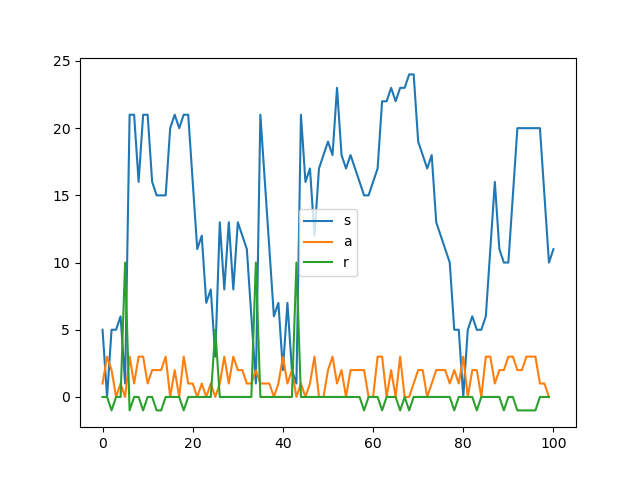
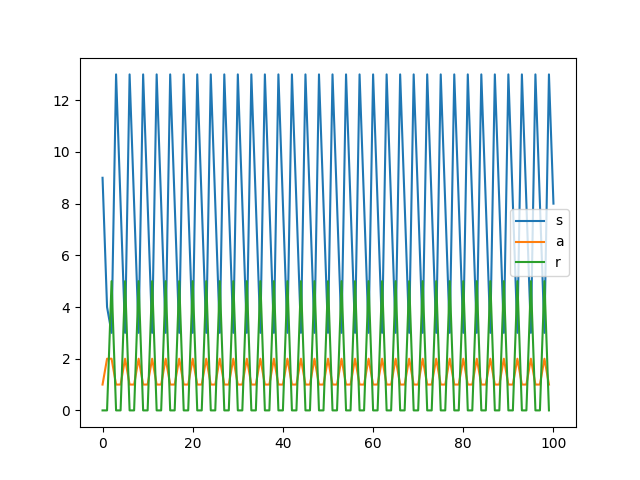
gridworld works

diff --git a/reinforce.py b/reinforce.py
@@ -1,0 +1,66 @@
+import torch
+import torch.nn as nn
+import torch.optim as optim
+from torch.distributions import Categorical
+
+
+class TabularPolicy(nn.Module):
+    def __init__(self, num_states, num_actions):
+        super(TabularPolicy, self).__init__()
+        self.weights = nn.Parameter(torch.zeros(num_states, num_actions))
+
+    def forward(self, state):
+        return Categorical(logits=self.weights[state])
+
+
+def train_policy(policy, optimizer, env, episodes, gamma=0.99):
+    returns_out = []
+    for episode in range(episodes):
+        state = env.reset()
+        log_probs, rewards = [], []
+
+        while True:
+            action_dist = policy(state)
+            action = action_dist.sample()
+            log_prob = action_dist.log_prob(action)
+            next_state, reward, done = env.step(action.item())
+
+            log_probs.append(log_prob)
+            rewards.append(reward)
+
+            state = next_state
+
+            if done:
+                break
+
+        returns = calculate_returns(rewards, gamma)
+        loss = update_policy(policy, optimizer, log_probs, returns)
+
+        returns_out.append(sum(rewards))
+
+        print(f"Episode {episode + 1}: Loss = {loss:.4f}, Total Reward = {sum(rewards)}")
+
+    return returns_out
+
+
+def calculate_returns(rewards, gamma):
+    returns = []
+    R = 0
+    for r in reversed(rewards):
+        R = r + gamma * R
+        returns.insert(0, R)
+    return returns
+
+
+def update_policy(policy, optimizer, log_probs, returns):
+    loss = []
+    for log_prob, G_t in zip(log_probs, returns):
+        loss.append(-log_prob * G_t)
+
+    loss = torch.stack(loss).sum()
+
+    optimizer.zero_grad()
+    loss.backward()
+    optimizer.step()
+
+    return loss.item()

diff --git a/test_gridworld.py b/test_gridworld.py
@@ -2,6 +2,10 @@ import random
 import numpy as np
 import matplotlib.pyplot as plt
 import gridworld
+from reinforce import TabularPolicy, train_policy
+import torch
+from torch import optim
+
 
 def main():
     # Create environment
@@ -9,6 +13,20 @@ def main():
 
     # Initialize simulation
     s = env.reset()
+
+    policy = TabularPolicy(env.num_states, env.num_actions)
+    optimizer = optim.Adam(policy.parameters(), lr=0.01)
+
+    episodes = 500
+    returns = train_policy(policy, optimizer, env, episodes, gamma=1)
+
+    # plot returns over episodes
+    plt.figure()
+    plt.plot(range(episodes), returns)
+    plt.xlabel('Episode')
+    plt.ylabel('Total Reward')
+    plt.savefig('figures/test_gridworld_returns.png')
+    plt.figure()
 
     # Create log to store data from simulation
     log = {
@@ -18,10 +36,12 @@ def main():
         'r': [],
     }
 
+    s = env.reset()
     # Simulate until episode is done
     done = False
     while not done:
-        a = random.randrange(4)
+        action_probs = torch.softmax(policy.weights[s], dim=0)
+        a = torch.argmax(action_probs).item()
         (s, r, done) = env.step(a)
         log['t'].append(log['t'][-1] + 1)
         log['s'].append(s)
